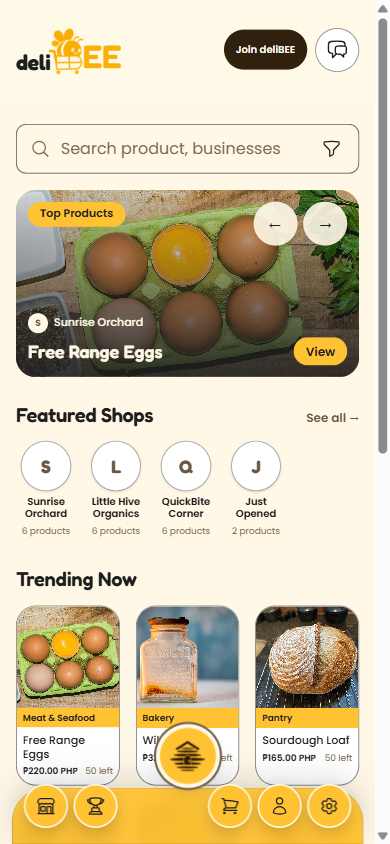
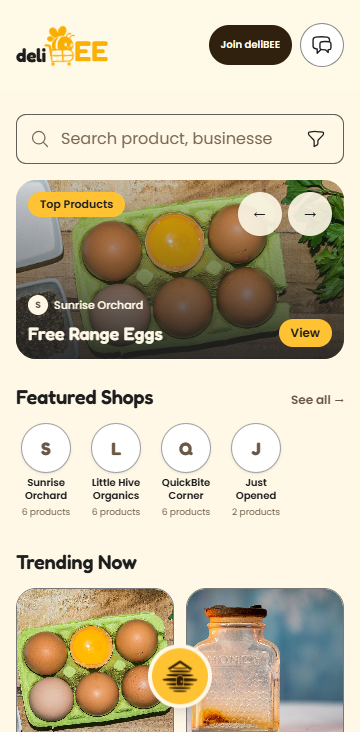
Hide the mobile navigation behind the hive button
- The bottom bar and named buttons now start hidden, leaving only the floating hive

- Tapping the hive pops the bar up; tapping again hides it and marks the links inert

- Refresh the mobile screenshots against the new default

diff --git a/resources/css/app.css b/resources/css/app.css
@@ -226,20 +226,44 @@ html:not(.dark) [data-flux-subheading] {
 }
 
 .mobile-nav {
-    --mobile-nav-bar-height: 3.5rem;
+    --mobile-nav-hive-bottom: 1.25rem;
+    pointer-events: none;
 }
 
-.mobile-nav.is-labels-open {
-    --mobile-nav-bar-height: 4.5rem;
+.mobile-nav.is-open {
+    --mobile-nav-hive-bottom: 4.5rem;
 }
 
 .mobile-nav .mobile-nav-bar {
-    height: var(--mobile-nav-bar-height);
-    transition: height .32s var(--mobile-ease-soft);
+    height: 4.5rem;
+    animation: none;
+    opacity: 0;
+    transform: translateY(0.75rem);
+    pointer-events: none;
+    transition: opacity .22s ease-out, transform .32s var(--mobile-ease-soft);
+}
+
+.mobile-nav.is-open .mobile-nav-bar {
+    opacity: 1;
+    transform: none;
+}
+
+.mobile-nav-row {
+    opacity: 0;
+    transform: translateY(0.75rem);
+    pointer-events: none;
+    transition: opacity .22s ease-out, transform .32s var(--mobile-ease-soft);
+}
+
+.mobile-nav.is-open .mobile-nav-row {
+    opacity: 1;
+    transform: none;
+    pointer-events: auto;
 }
 
 .mobile-nav .mobile-hive {
-    bottom: var(--mobile-nav-bar-height);
+    bottom: var(--mobile-nav-hive-bottom);
+    pointer-events: auto;
     transition: bottom .32s var(--mobile-ease-soft);
 }
 
@@ -257,7 +281,7 @@ html:not(.dark) [data-flux-subheading] {
     transition-delay: calc(var(--nav-index, 0) * 18ms);
 }
 
-.mobile-nav.is-labels-open .mobile-nav-label {
+.mobile-nav.is-open .mobile-nav-label {
     max-height: 0.875rem;
     margin-top: 2px;
     opacity: 1;
@@ -307,6 +331,7 @@ html:not(.dark) [data-flux-subheading] {
     .mobile-hive,
     .mobile-hive > span,
     .mobile-nav .mobile-nav-bar,
+    .mobile-nav-row,
     .mobile-nav .mobile-hive,
     .mobile-nav-label,
     .mobile-carousel-button,

diff --git a/resources/views/components/storefront/mobile-nav.blade.php b/resources/views/components/storefront/mobile-nav.blade.php
@@ -13,12 +13,17 @@
 
 <nav aria-label="Mobile navigation"
      x-data="{ navOpen: false }"
-     x-bind:class="{ 'is-labels-open': navOpen }"
+     x-bind:class="{ 'is-open': navOpen }"
      class="mobile-nav fixed inset-x-0 bottom-0 z-50 lg:hidden">
     <div class="relative mx-auto max-w-md px-3 pb-[max(8px,env(safe-area-inset-bottom))]">
         <div class="mobile-nav-bar absolute inset-x-3 bottom-0 rounded-t-[34px] border border-ink/10 bg-honey/95 shadow-[0_-10px_30px_rgba(30,30,30,0.14)] backdrop-blur dark:border-zinc-700 dark:bg-[#4a3c2f]/95"></div>
 
-        <div id="mobile-nav-labels" class="mobile-nav-row relative flex items-end justify-between gap-1 px-3 pb-2 pt-3">
+        <div id="mobile-nav-labels"
+             class="mobile-nav-row relative flex items-end justify-between gap-1 px-3 pb-2 pt-3"
+             x-bind:inert="!navOpen"
+             x-bind:aria-hidden="(!navOpen).toString()"
+             inert
+             aria-hidden="true">
             @foreach (array_slice($items, 0, 2) as $index => $item)
                 @include('components.storefront.mobile-nav-item', ['item' => $item, 'index' => $index])
             @endforeach
@@ -33,8 +38,8 @@
         <button type="button"
                 x-on:click="navOpen = !navOpen"
                 x-bind:aria-expanded="navOpen.toString()"
+                x-bind:aria-label="navOpen ? '{{ __('Hide navigation') }}' : '{{ __('Show navigation') }}'"
                 class="mobile-hive group absolute left-1/2 z-10 flex -translate-x-1/2 flex-col items-center rounded-full focus-visible:outline-2 focus-visible:outline-offset-4 focus-visible:outline-ink dark:focus-visible:outline-honey"
-                aria-label="{{ __('Navigation labels') }}"
                 aria-controls="mobile-nav-labels">
             <span class="grid size-16 place-items-center rounded-full border-4 border-paper bg-honey shadow-lg transition-transform group-hover:-translate-y-0.5 group-active:scale-95 dark:border-zinc-950 dark:bg-honey-deep">
                 <img src="{{ asset('images/mobile/hive.png') }}"
